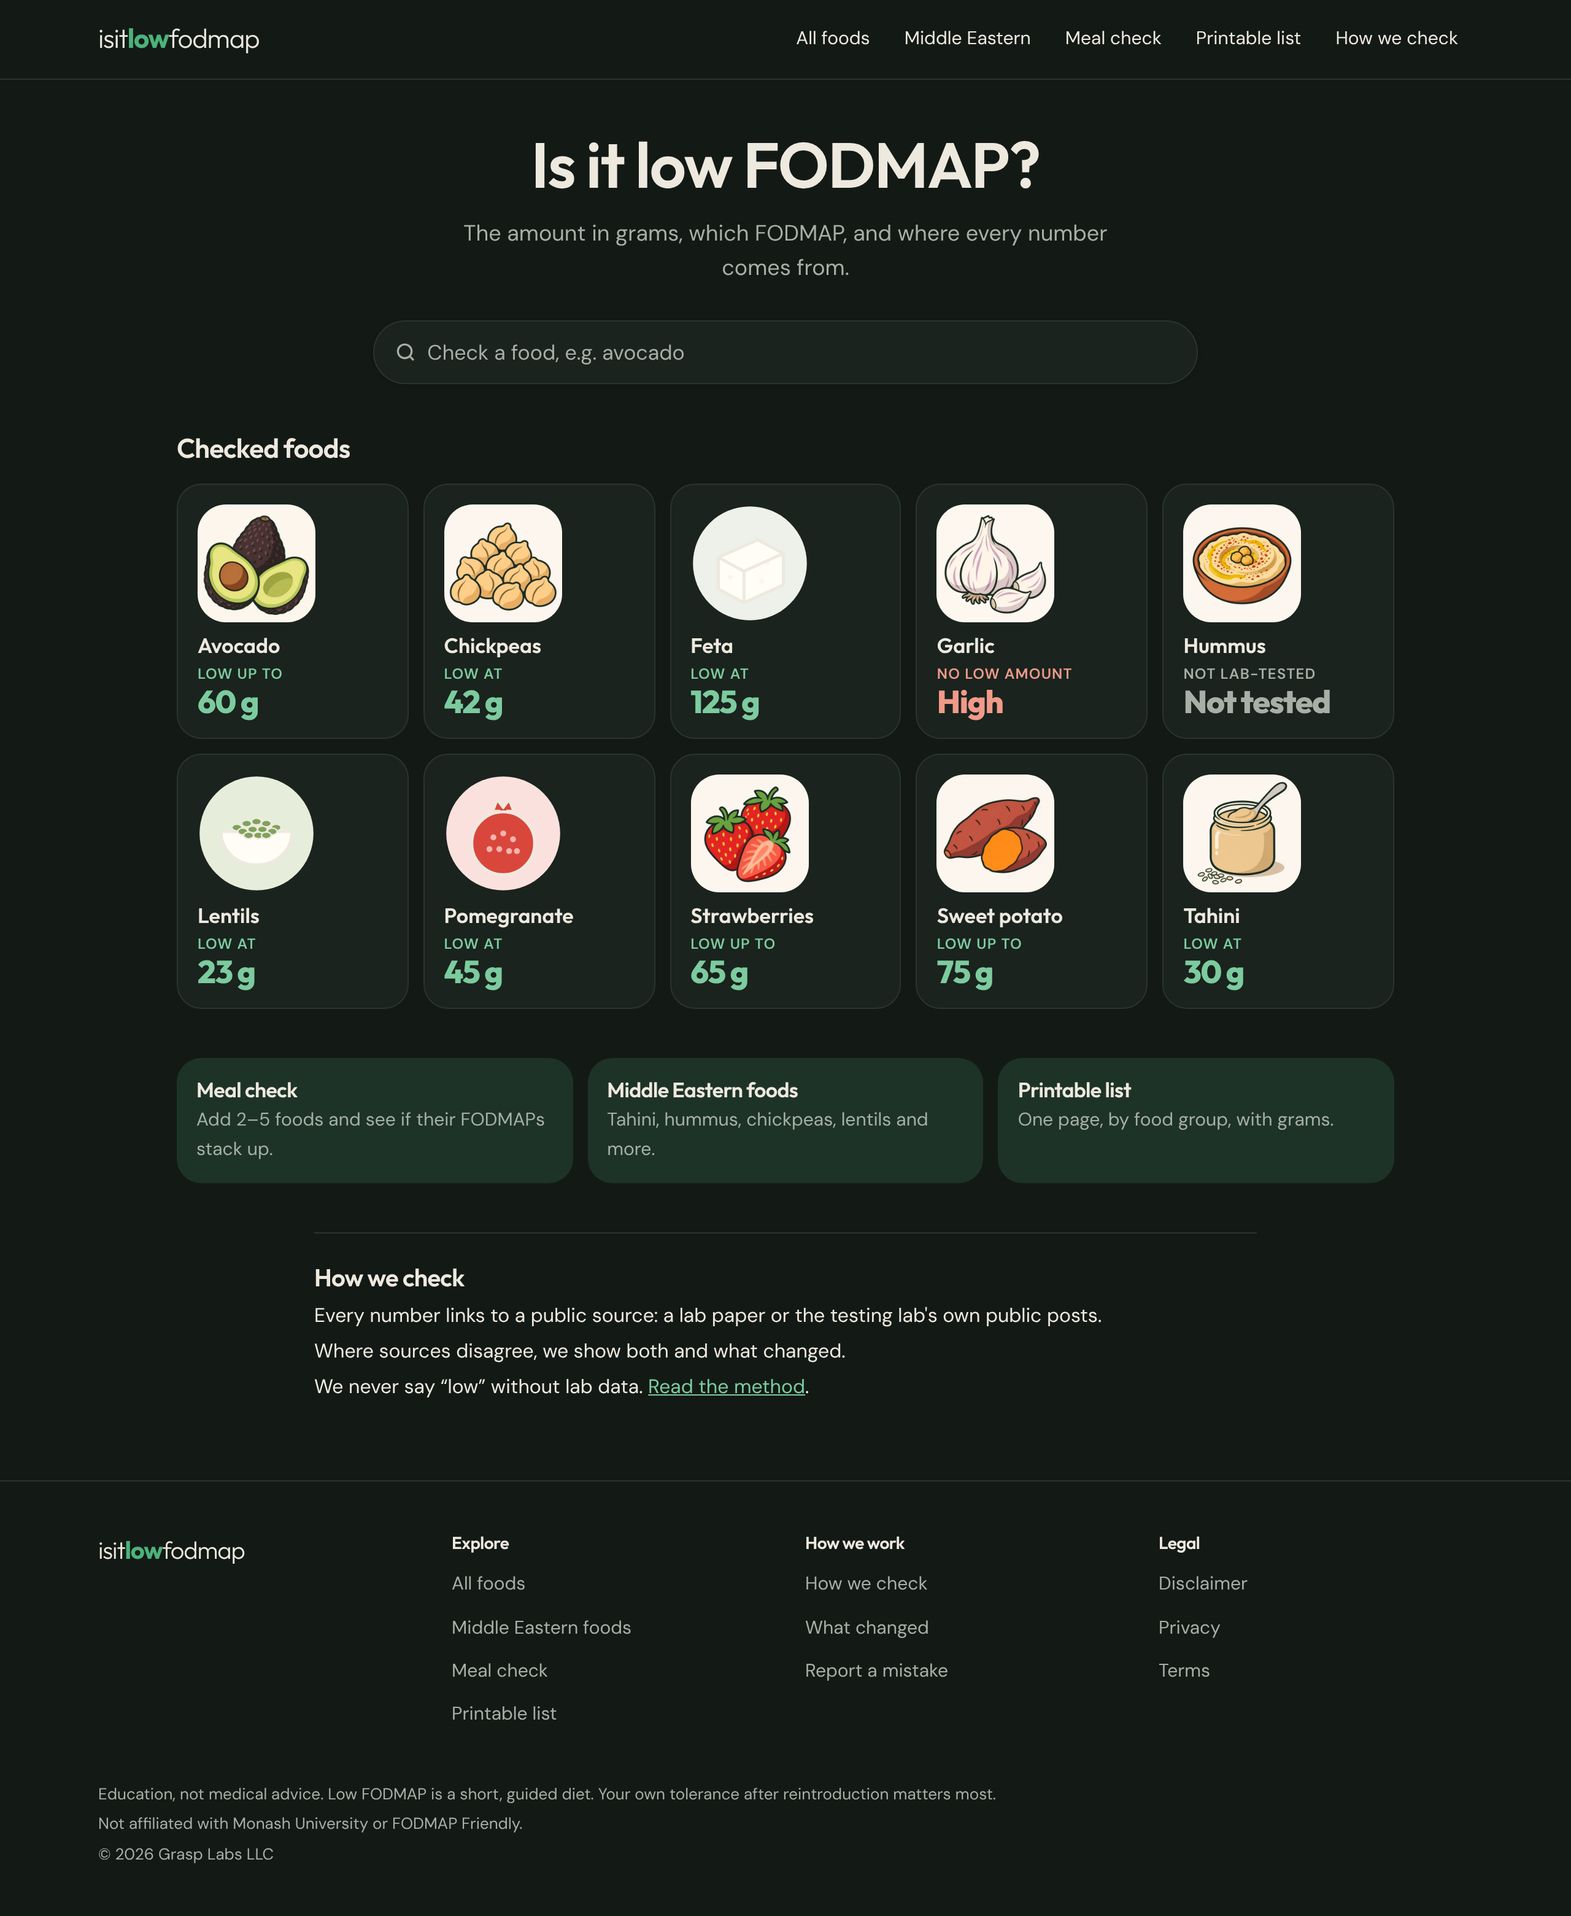
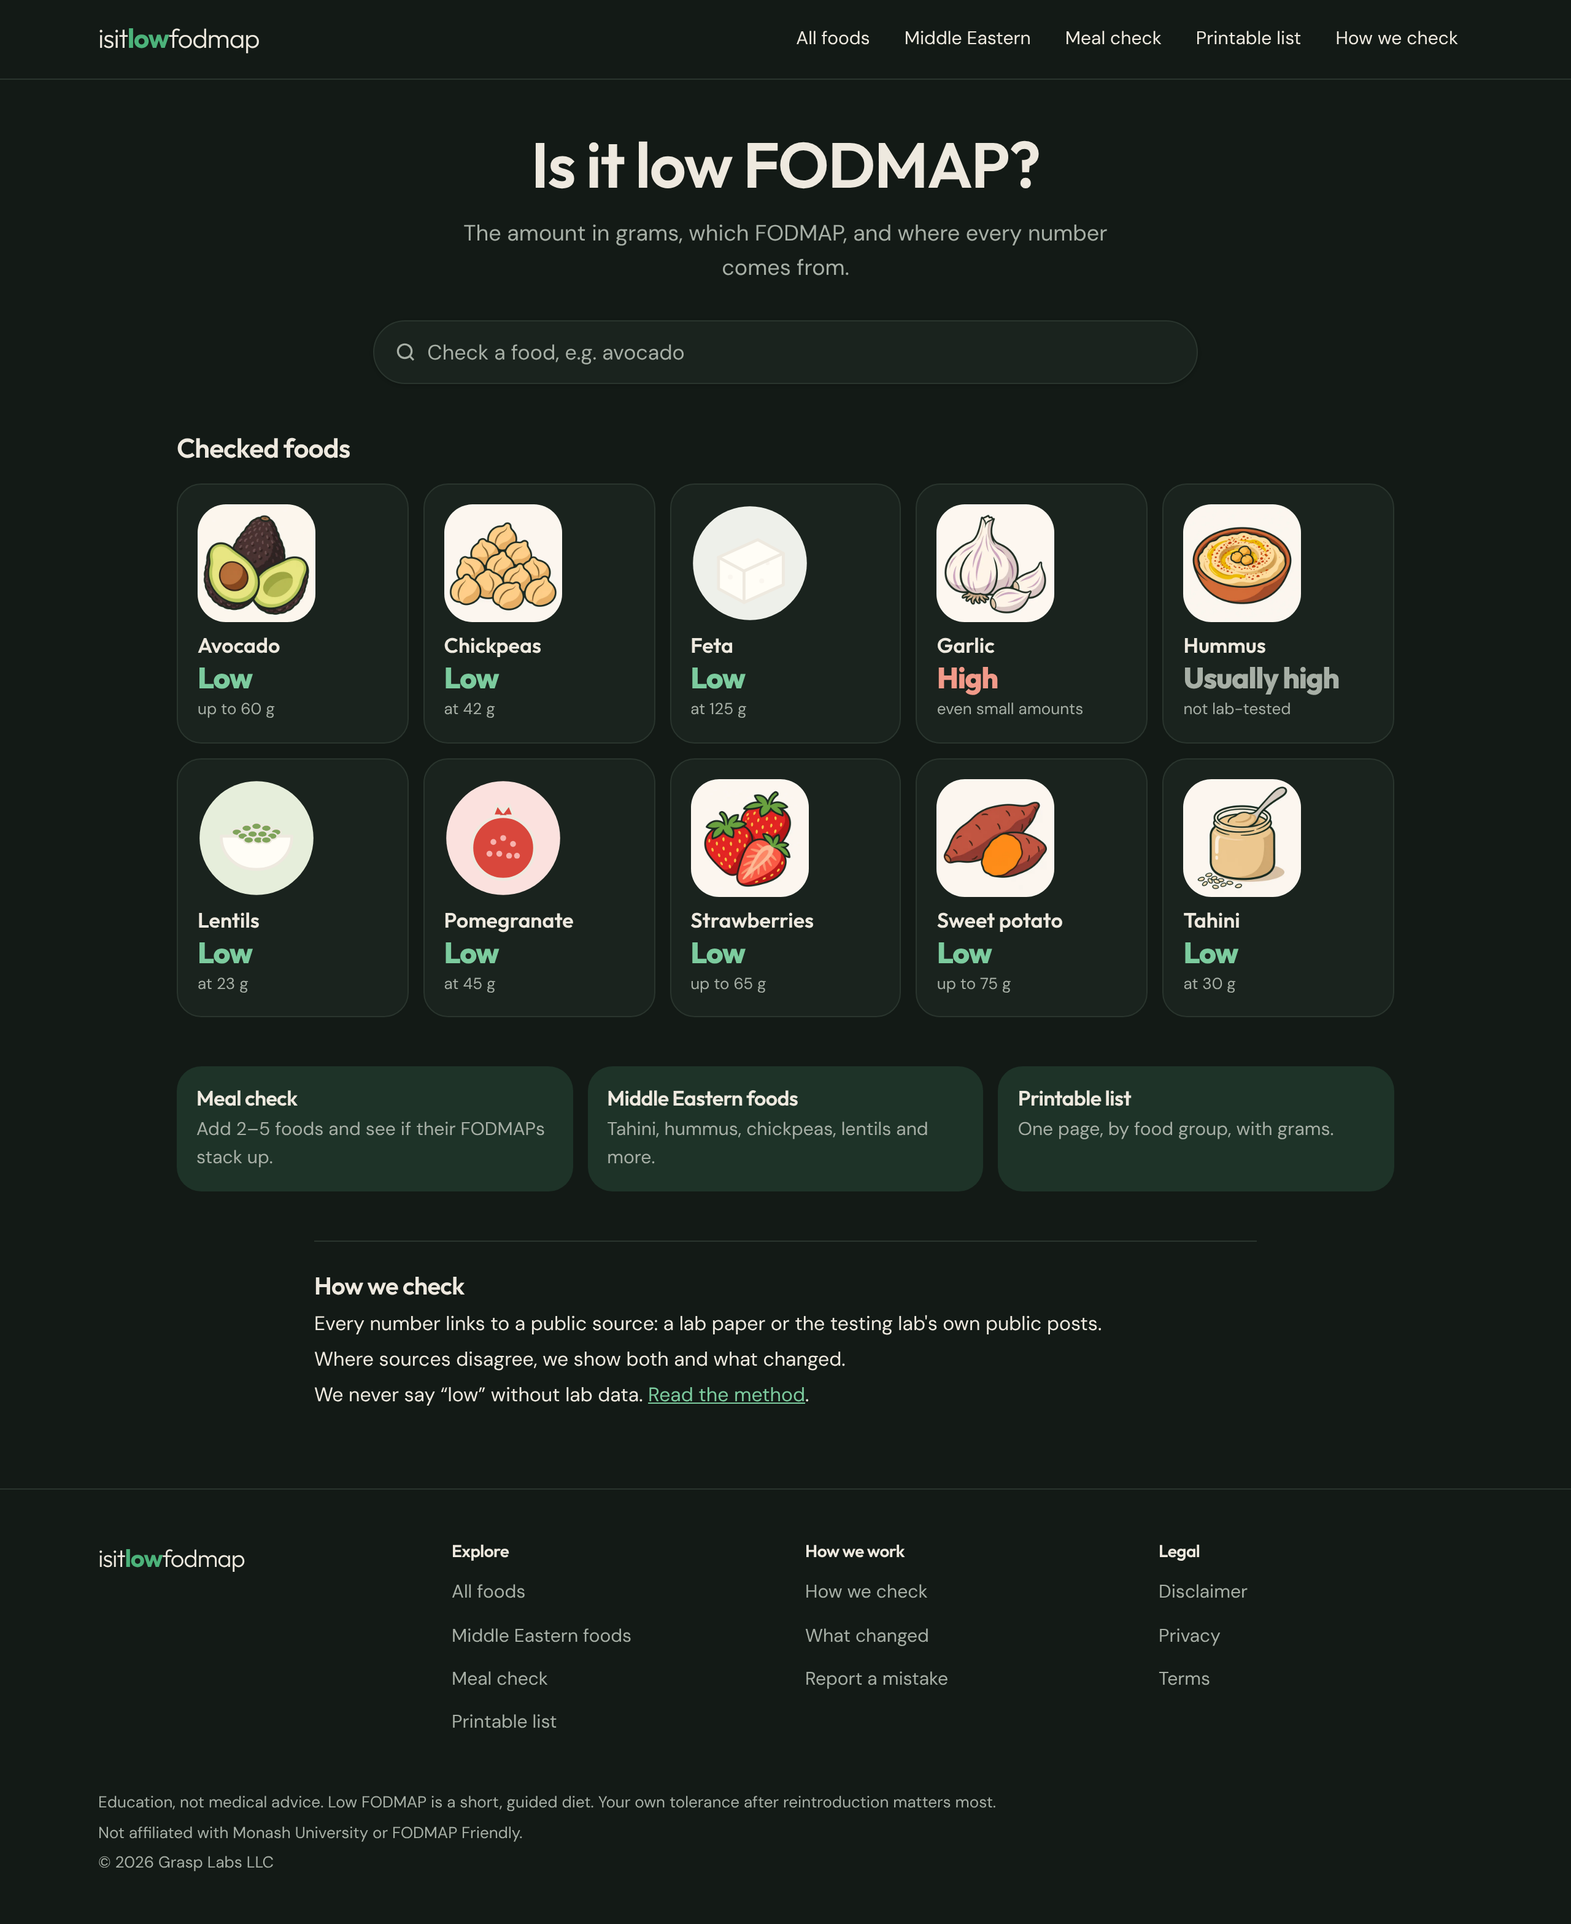
Answer-first food page: Low/High FODMAP verdict, 3 traffic lights, details moved below
Claude-Session: https://claude.ai/code/session_01Q8GFjWSXATGhzzXd6CdBtz

diff --git a/src/components/AnswerCard.tsx b/src/components/AnswerCard.tsx
@@ -1,0 +1,61 @@
+import type { Food } from "@/data/schema";
+import { GROUP_LABEL } from "@/lib/groups";
+import { verdict } from "@/lib/fodmap";
+
+// Answer-first hero (DECISIONS 2026-11-19, option 1): a big Yes/No, one sentence with grams, 3 traffic lights.
+type Light = { tone: "low" | "mid" | "high" | "none"; label: string; grams: string; sub?: string };
+const TONE = {
+  low: { box: "bg-low/15", text: "text-brand-ink", shape: "●" },
+  mid: { box: "bg-mid/20", text: "text-mid-ink", shape: "▲" },
+  high: { box: "bg-high/15", text: "text-high-ink", shape: "■" },
+  none: { box: "bg-chip", text: "text-muted", shape: "○" },
+};
+
+export function answerWord(food: Food) {
+  const v = verdict(food);
+  if (v === "estimate" || v === "unknown") return { word: food.estimateAnswer?.word ?? "Not tested", tone: "none" as const };
+  if (v === "high") return { word: "High FODMAP", tone: "high" as const };
+  return { word: "Low FODMAP", tone: "low" as const };
+}
+
+export function AnswerCard({ food, cite }: { food: Food; cite: (ids: string[]) => React.ReactNode }) {
+  const s = food.servings[0];
+  const v = verdict(food);
+  const { word, tone } = answerWord(food);
+  const groups = s.groups.map((g) => (g === "gos" ? "GOS" : GROUP_LABEL[g].toLowerCase())).join(" and ");
+  const amount = s.lowMaxG !== null ? `${s.lowMaxG} g${s.household ? ` (${s.household})` : ""}` : "";
+  const line =
+    v === "depends" ? <>In a portion up to <b>{amount}</b>.{s.highFromG ? <> High from {s.highFromG} g.</> : s.moderateFromG ? <> Moderate from {s.moderateFromG} g.</> : null}</> :
+    v === "low" ? <>At <b>{amount}</b>, the amount tested.</> :
+    v === "high" ? <>{s.highFromG ? <>Even at <b>{s.highFromG} g</b>, </> : null}from {groups}. No low amount found.</> :
+    <>{food.estimateAnswer?.line ?? "No lab has published a tested serve yet."}</>;
+
+  const lights: Light[] = [];
+  if (v === "estimate" || v === "unknown") lights.push({ tone: "none", label: "Low", grams: "not tested" });
+  else {
+    lights.push(s.lowMaxG !== null ? { tone: "low", label: "Low", grams: `${s.lowMaxG} g`, sub: s.household } : { tone: "none", label: "Low", grams: "none", sub: "no low amount" });
+    if (s.moderateFromG !== null) lights.push({ tone: "mid", label: "Moderate", grams: `${s.moderateFromG} g` });
+    if (s.highFromG !== null) lights.push({ tone: "high", label: "High", grams: `${s.highFromG} g+`, sub: s.lowMaxG === null ? "smallest tested" : undefined });
+    if (s.moderateFromG === null && s.highFromG === null) lights.push({ tone: "none", label: "More", grams: "not tested", sub: `above ${s.lowMaxG} g` });
+  }
+  const textTone = TONE[tone].text;
+
+  return (
+    <section aria-label="Answer" className="mt-5 rounded-[var(--radius-card)] border border-line bg-card p-5 sm:p-6">
+      <p className={`font-display text-[44px] font-extrabold leading-none tracking-[-0.035em] sm:text-[56px] ${textTone}`}>{word}</p>
+      <p className="mt-2 text-[19px] leading-snug">{line}</p>
+      <ul className="mt-4 flex gap-2">
+        {lights.map((l) => (
+          <li key={l.label} className={`flex-1 rounded-2xl px-2 py-2.5 text-center ${TONE[l.tone].box}`}>
+            <p className={`text-[13px] font-bold ${TONE[l.tone].text}`}><span aria-hidden>{TONE[l.tone].shape} </span>{l.label}</p>
+            <p className="font-display text-[21px] font-extrabold leading-tight">{l.grams}</p>
+            {l.sub && <p className="text-[12px] leading-tight text-muted">{l.sub}</p>}
+          </li>
+        ))}
+      </ul>
+      <p className="mt-4 text-[14px] text-muted">
+        Watch for: <b className="text-ink">{groups}</b> · {v === "estimate" || v === "unknown" ? "Estimated from ingredients" : "Lab data"}{cite(s.sourceIds)}
+      </p>
+    </section>
+  );
+}

diff --git a/src/app/food/[slug]/page.tsx b/src/app/food/[slug]/page.tsx
@@ -5,7 +5,7 @@ import { citedSources, foods, getFood, related, sameGroup } from "@/data";
 import { GROUP_LABEL } from "@/data/schema";
 import { FoodArt } from "@/components/FoodArt";
 import { PortionSlider } from "@/components/PortionSlider";
-import { BigAnswer } from "@/components/BigAnswer";
+import { AnswerCard } from "@/components/AnswerCard";
 import { DoctorBox } from "@/components/DoctorBox";
 import { Row } from "@/components/Row";
 import { fmt, messages as m } from "@/lib/i18n";
@@ -51,28 +51,25 @@ export default async function FoodPage({ params }: { params: Promise<{ slug: str
         <FoodArt name={food.illustration} size={104} priority />
       </div>
 
-      <section aria-label="Answer" className="mt-5 rounded-[var(--radius-card)] border border-line bg-card p-5 sm:p-6">
-        <BigAnswer food={food} />
-        <p className="mt-3 text-[17px] leading-relaxed">{food.answer}{cite(main.sourceIds)}</p>
-        <div className="mt-5"><PortionSlider serving={main} /></div>
-        <ul className="mt-5 flex flex-wrap gap-2 text-[13px]">
-          {food.groups.map((g) => (<li key={g} className="rounded-full bg-chip px-2.5 py-1">{GROUP_LABEL[g]}</li>))}
-          <li className="rounded-full bg-chip px-2.5 py-1">{m.tier[food.tier]} · {main.form}</li>
-          <li className="rounded-full bg-chip px-2.5 py-1">{fmt(m.food.checked, { date: fmtDate(food.checked) })}</li>
-        </ul>
-      </section>
-
-      {food.swaps.length > 0 && (
-        <section className="mt-4 rounded-[var(--radius-card)] border border-line bg-card p-5">
-          <h2 className="text-lg font-semibold">{m.food.tryInstead}</h2>
-          <ul className="mt-3 flex flex-wrap gap-2">
-            {food.swaps.map((s) => (<li key={s.name}>{s.slug ? <Link href={`/food/${s.slug}`} className="inline-flex rounded-full bg-soft px-3 py-1.5 text-[14px] font-medium text-brand-ink">● {s.name}</Link> : <span className="inline-flex rounded-full bg-soft px-3 py-1.5 text-[14px] font-medium text-brand-ink">● {s.name}</span>}</li>))}
-          </ul>
-        </section>
-      )}
-      <Link href={`/check?add=${food.slug}`} className="no-print mt-4 block rounded-full bg-btn px-5 py-3.5 text-center font-semibold text-white hover:bg-btn-hover">{fmt(m.food.addToMeal, { name: food.name })}</Link>
+      <AnswerCard food={food} cite={cite} />
 
       <div className="mt-8">
+        {food.tier !== "estimated" && food.tier !== "unknown" && (
+          <Row title="Check your portion">
+            <PortionSlider serving={main} />
+          </Row>
+        )}
+        {food.swaps.length > 0 && (
+          <Row title={m.food.tryInstead}>
+            <ul className="flex flex-wrap gap-2">
+              {food.swaps.map((s) => (<li key={s.name}>{s.slug ? <Link href={`/food/${s.slug}`} className="inline-flex rounded-full bg-soft px-3 py-1.5 text-[14px] font-medium text-brand-ink">{s.name}</Link> : <span className="inline-flex rounded-full bg-soft px-3 py-1.5 text-[14px] font-medium text-brand-ink">{s.name}</span>}</li>))}
+            </ul>
+          </Row>
+        )}
+        <Row title="In detail">
+          <p>{food.answer}{cite(main.sourceIds)}</p>
+          <p className="mt-2 text-[15px] text-muted">{m.tier[food.tier]} · {main.form} · {fmt(m.food.checked, { date: fmtDate(food.checked) })} · <Link href={`/check?add=${food.slug}`} className="text-brand-ink underline">{fmt(m.food.addToMeal, { name: food.name })}</Link></p>
+        </Row>
         {food.servings.length > 1 && (
           <Row title={m.food.forms}>
             <table className="w-full text-[15px]"><thead><tr className="text-left text-muted"><th className="py-1 font-medium">Form</th><th className="font-medium">Low up to</th><th className="font-medium">High from</th></tr></thead>

diff --git a/src/components/FoodTile.tsx b/src/components/FoodTile.tsx
@@ -7,15 +7,15 @@ import { FoodArt } from "./FoodArt";
 export function FoodTile({ food }: { food: Food }) {
   const s = food.servings[0];
   const v = verdict(food);
-  const big = v === "depends" || v === "low" ? `${s.lowMaxG} g` : v === "high" ? "High" : "Not tested";
-  const small = v === "depends" ? "low up to" : v === "low" ? "low at" : v === "high" ? "no low amount" : "not lab-tested";
+  const big = v === "depends" || v === "low" ? "Low" : v === "high" ? "High" : (food.estimateAnswer?.word ?? "Not tested");
+  const small = v === "depends" ? `up to ${s.lowMaxG} g` : v === "low" ? `at ${s.lowMaxG} g` : v === "high" ? "even small amounts" : "not lab-tested";
   const color = v === "high" ? "text-high-ink" : v === "estimate" || v === "unknown" ? "text-muted" : "text-brand-ink";
   return (
     <Link href={`/food/${food.slug}`} className="group flex flex-col rounded-[var(--radius-card)] border border-line bg-card p-3 transition-colors hover:border-brand sm:p-4">
       <FoodArt name={food.illustration} size={96} label="" />
       <span className="mt-2 font-display text-[17px] font-semibold leading-tight">{food.name[0].toUpperCase() + food.name.slice(1)}</span>
-      <span className={`mt-1 text-[12px] font-semibold uppercase tracking-[0.05em] ${color}`}>{small}</span>
-      <span className={`font-display text-[26px] font-extrabold leading-none tracking-[-0.03em] ${color}`}>{big}</span>
+      <span className={`mt-1 font-display text-[24px] font-extrabold leading-none tracking-[-0.03em] ${color}`}>{big}<span className="sr-only"> FODMAP</span></span>
+      <span className="mt-1 text-[13px] text-muted">{small}</span>
     </Link>
   );
 }

diff --git a/src/data/foods/sweet-potato.ts b/src/data/foods/sweet-potato.ts
@@ -5,7 +5,7 @@ const food: FoodInput = {
   tier: "lab-tested",
   answer: "Yes, at a standard serve. Monash rates half a cup (75 g) of sweet potato low. In its published testing, bigger servings turned moderate above 100 g and high above 112 g, from the polyol mannitol.",
   groups: ["mannitol"],
-  servings: [{ form: "sweet potato", lowMaxG: 75, moderateFromG: 101, highFromG: 113, scaleMaxG: 160, groups: ["mannitol"], household: "about ½ cup", sourceIds: ["mon-stack-2016", "mon-shop-2025"] }],
+  servings: [{ form: "sweet potato", lowMaxG: 75, moderateFromG: 100, highFromG: 112, scaleMaxG: 160, groups: ["mannitol"], household: "about ½ cup", sourceIds: ["mon-stack-2016", "mon-shop-2025"] }],
   changes: [{ date: "2025", text: "Dietitian sites report that Monash retested sweet potato: it's now listed for fructans instead of mannitol, low up to about 149 g. We haven't found Monash's own public post on this yet, so the bar above still shows the published 2016 numbers.", sourceIds: ["kk-sweetpot", "ge-potato"] }],
   disagreements: [{ text: "Monash doesn't say whether the 75 g is raw or cooked weight, and secondary sites differ on it.", sourceIds: ["mon-stack-2016", "mon-shop-2025"] }],
   notes: [{ text: "To make a bigger bowl of sweet potato soup or mash, Monash suggests bulking it out with parsnip, potato and carrot.", sourceIds: ["mon-stack-2016"] }],

diff --git a/src/data/foods/hummus.ts b/src/data/foods/hummus.ts
@@ -4,6 +4,7 @@ const food: FoodInput = {
   slug: "hummus", name: "hummus", aliases: ["houmous", "hommus", "humus"], category: "condiments", regions: ["middle-eastern", "mediterranean"], illustration: "hummus",
   tier: "estimated",
   answer: "Usually not when store-bought: most hummus combines chickpeas with garlic, and Monash says shop hummus is usually not FODMAP friendly. No lab has published a tested serve. Homemade with rinsed canned chickpeas and garlic-infused oil is the lower-FODMAP route.",
+  estimateAnswer: { word: "Usually high", line: "Most store-bought hummus has garlic plus chickpeas. No lab has tested a hummus serve." },
   groups: ["gos", "fructans"],
   servings: [{ form: "store-bought hummus", lowMaxG: null, moderateFromG: null, highFromG: null, scaleMaxG: 100, groups: ["gos", "fructans"], sourceIds: ["mon-hummus-blog"], note: "Not lab-tested. Estimated from its ingredients." }],
   notes: [

diff --git a/tests/data.test.ts b/tests/data.test.ts
@@ -21,6 +21,10 @@ describe("data rules (DECISIONS §0)", () => {
         if (f.tier === "estimated" || f.tier === "unknown") for (const s of f.servings) expect(s.lowMaxG, `${f.slug} ${s.form}`).toBeNull();
         for (const s of f.servings) if (s.lowMaxG !== null) expect(getSource(s.sourceIds[0])!.kind).not.toBe("dataset");
       });
+      it("an estimate's big word never says low", () => {
+        if (f.estimateAnswer) expect(f.estimateAnswer.word.toLowerCase()).not.toMatch(/\blow\b/);
+        if (f.tier === "estimated") expect(f.estimateAnswer, `${f.slug} needs an estimateAnswer`).toBeDefined();
+      });
       it("zones are in order and on the scale", () => {
         for (const s of f.servings) {
           const pts = [s.lowMaxG, s.moderateFromG, s.highFromG].filter((x): x is number => x !== null);

diff --git a/src/data/schema.ts b/src/data/schema.ts
@@ -48,6 +48,8 @@ export const Food = z.object({
   illustration: z.string(),
   tier: Tier,
   answer: z.string().min(20).max(320), // the first sentence(s), our words; quoted by AI answers
+  // Only for foods without lab data: the plain one-word answer and line shown in the hero ("Usually not").
+  estimateAnswer: z.object({ word: z.string().max(14), line: z.string().max(120) }).optional(),
   groups: z.array(Group),
   servings: z.array(Serving).min(1),
   changes: z.array(z.object({ date: z.string(), text: z.string(), sourceIds: z.array(z.string()).min(1) })).default([]),

diff --git a/docs/DECISIONS.md b/docs/DECISIONS.md
@@ -127,3 +127,9 @@ Owner: "nah needs work again feels kinda cluttered and does actual answer the fo
 - **Diagnosis:** the page opens with "LOW UP TO 75 g", not a yes/no, and the first screen holds too much (long paragraph, busy bar with a striped part, 3 chips, swaps card, button).
 - **Proposal:** a big Yes / No / Small amounts only, one line with the grams, then 3 traffic-light boxes (Low / Moderate / High, each with its grams). Everything else moves below the answer.
 - Mock-ups: `docs/designs/m1-clarity/answer-options.png`. Option 1 (3 traffic lights) 9.5/10, option 2 (simple bar) 8/10. Waiting for the pick.
+
+## Answer-first hero: option 1 (owner, 2026-11-19)
+Owner chose "1 · 3 traffic lights". The food page top is a big Yes / No (estimated foods get their own word, e.g. "Usually not"), one sentence with the grams, then Low / Moderate / High boxes each with its grams, then one "watch for" line with the source. The portion slider, swaps and details move below. Tiles lead with Yes/No too.
+
+## Verdict must say low or high (owner, 2026-11-19)
+Owner: "ppl must understand tho if its high or not etc". The big word is now **Low FODMAP** / **High FODMAP** (estimates: their own word, e.g. "Usually high", and a test blocks "low" in it), not a bare Yes/No. Tiles show "Low"/"High" plus the grams. Foods without lab data hide the portion slider.

diff --git a/docs/MANUAL-TESTS.md b/docs/MANUAL-TESTS.md
@@ -12,8 +12,9 @@ Preview: run locally (see STATUS "How to run") until Cloudflare is connected.
 - [ ] Type `houmous` (UK spelling) → Hummus appears.
 
 ### Food page (try `/food/sweet-potato`)
-- [ ] "LOW UP TO" then a big **75 g** with "about ½ cup" beside it, and a picture of sweet potato top right.
-- [ ] The scale has thick coloured segments with Low / High labels under them. Drag it: 75 g says **● Low**; 90 g **○ Not tested**; 105 g **▲ Moderate**; 120 g **■ High**.
+- [ ] Big green **Low FODMAP**, then "In a portion up to 75 g (about ½ cup). High from 112 g.", then 3 boxes: ● Low 75 g / ▲ Moderate 100 g / ■ High 112 g+.
+- [ ] `/food/garlic` says big red **High FODMAP**; `/food/hummus` says **Usually high** and has no portion slider.
+- [ ] Under "Check your portion", the scale has thick coloured segments with Low / High labels under them. Drag it: 75 g says **● Low**; 90 g **○ Not tested**; 105 g **▲ Moderate**; 120 g **■ High**.
 - [ ] Tap a small [1] → it jumps to the matching source at the bottom; the link opens Monash's page.
 - [ ] "What changed" explains the 2025 retest reported by dietitian sites.
 - [ ] "See a doctor first if" box is there, calm amber, not red.
